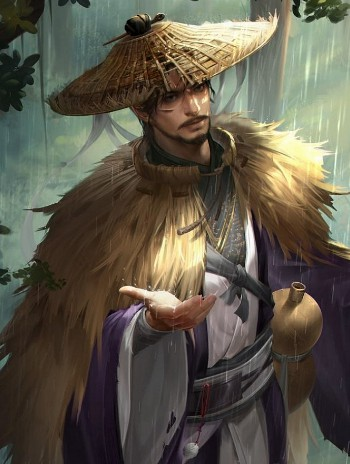
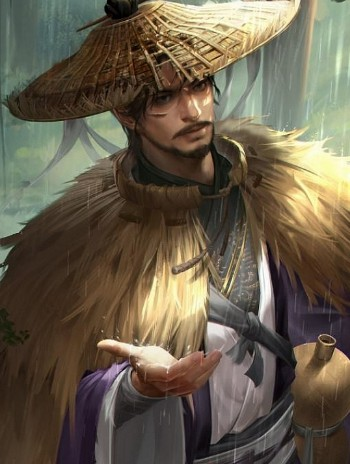
素材替换；诸葛若雪bugfix；侠关羽技能描述更正；诸葛均技能调整

diff --git a/character/tw/translate.js b/character/tw/translate.js
@@ -638,7 +638,7 @@ const translates = {
 	twzhongyi: "忠义",
 	twzhongyi_info: "锁定技。①你使用【杀】无距离限制。②当你使用【杀】结算完毕后，你选择一项：⒈摸X张牌；⒉回复X点体力；⒊背水：失去Y点体力，依次执行以上两项（X为受到此牌造成的伤害的角色数，Y为你本局游戏选择此项的次数）。",
 	twchue: "除恶",
-	twchue_info: "①当你使用【杀】指定唯一目标时，若场上存在可称为此【杀】目标的非目标角色，则你可以失去1点体力，为此牌额外指定Z个目标。②当你受到伤害或失去体力后，你摸一张牌并获得1个“勇”标记。③回合结束时，若你的“勇”标记数大于等于Z，则你可以失去Z个“勇”标记，视为使用一张伤害+1且可以额外指定Z个目标的【杀】。（Z为你的体力值）",
+	twchue_info: "①当你使用【杀】指定唯一目标时，若场上存在可成为此【杀】目标的非目标角色，则你可以失去1点体力，为此牌额外指定Z个目标。②当你受到伤害或失去体力后，你摸一张牌并获得1个“勇”标记。③回合结束时，若你的“勇”标记数大于等于Z，则你可以失去Z个“勇”标记，视为使用一张伤害+1且可以额外指定Z个目标的【杀】。（Z为你的体力值）",
 	xia_shitao: "石韬",
 	twjieqiu: "劫囚",
 	twjieqiu_info: "出牌阶段限一次，你可以选择一名装备区没有废除栏的其他角色，废除其所有装备栏，然后其摸X张牌（X为其废除装备栏前的装备区牌数），直到其恢复所有装备栏前：其弃牌阶段结束时，其恢复等同于其弃置牌数的装备栏；其回合结束时，若其仍有已废除的装备栏，则你执行一个额外回合（每轮限一次）。",
@@ -688,11 +688,11 @@ const translates = {
 	twbaizu_info: "锁定技。结束阶段，若你已受伤且你有手牌，则你须选择X名有手牌的其他角色（X为你的体力值），你与这些角色同时弃置一张手牌，然后你对与你弃置牌类别相同的所有其他角色各造成1点伤害。历战：〖败族〗目标选择数+1。",
 	tw_zhugejun: "诸葛均",
 	twshouzhu: "受嘱",
-	twshouzhu_info: "出牌阶段开始时，你的同心角色可交给你至多三张牌。若你以此法得到的牌数X不小于2，其摸一张牌，然后执行同心：观看牌堆顶X张牌，然后将其中任意张牌以任意顺序置于牌堆底，将其余的牌置入弃牌堆。",
+	twshouzhu_info: "出牌阶段开始时，你的同心角色可交给你至多四张牌。若你以此法得到的牌数X不小于2，其摸一张牌，然后执行同心：观看牌堆顶X张牌，然后将其中任意张牌以任意顺序置于牌堆底，将其余的牌置入弃牌堆。",
 	twdaigui: "待归",
 	twdaigui_info: "出牌阶段结束时，若你手牌的颜色均相同，你可以选择至多Y名角色并亮出牌堆底等量的牌，然后这些角色依次选择并获得其中一张（Y为你的手牌数）。",
 	twcairu: "才濡",
-	twcairu_info: "每回合每种牌名限一次。你可以将两张颜色不同的牌当【火攻】、【铁索连环】或【无中生有】使用。",
+	twcairu_info: "每回合每种牌名限两次。你可以将两张颜色不同的牌当【火攻】、【铁索连环】或【无中生有】使用。",
 	simafu: "TW司马孚",
 	simafu_prefix: "TW",
 	xunde: "勋德",

diff --git a/character/tw/skill.js b/character/tw/skill.js
@@ -30,7 +30,7 @@ const skills = {
 			for (const current of targets) {
 				if (!current.isIn()) continue;
 				const cards = await current
-					.chooseToGive(`${get.translation(player)}对你发动了【受嘱】`, "作为其的同心角色，是否交给其至多三张牌？", player, "he", [1, 3])
+					.chooseToGive(`${get.translation(player)}对你发动了【受嘱】`, "作为其的同心角色，是否交给其至多四张牌？", player, "he", [1, 4])
 					.set("ai", card => {
 						if (!get.event("goon")) return -get.value(card);
 						if (ui.selected.cards.length < 2) return 4.5 + ui.selected.cards.length - get.value(card) + get.player().getUseValue(card) / 5;
@@ -218,7 +218,7 @@ const skills = {
 		enable: ["chooseToUse", "chooseToRespond"],
 		filter(event, player) {
 			return ["huogong", "tiesuo", "wuzhong"].some(name => {
-				if (player.getStorage("twcairu_used").includes(name)) return false;
+				if (player.getStorage("twcairu_used").filter(namex => namex == name).length > 1) return false;
 				return event.filterCard({ name }, player, event);
 			});
 		},
@@ -226,7 +226,7 @@ const skills = {
 			dialog(event, player) {
 				const list = ["huogong", "tiesuo", "wuzhong"]
 					.filter(name => {
-						if (player.getStorage("twcairu_used").includes(name)) return false;
+						if (player.getStorage("twcairu_used").filter(namex => namex == name).length > 1) return false;
 						return event.filterCard({ name }, player, event);
 					})
 					.map(name => [get.translation(get.type(name)), "", name]);
@@ -259,7 +259,7 @@ const skills = {
 								delete player.storage.twcairu_used;
 							});
 						}
-						player.storage.twcairu_used.add(event.result.card.name);
+						player.storage.twcairu_used.push(event.result.card.name);
 					},
 				};
 			},
@@ -274,7 +274,7 @@ const skills = {
 				let max = 0,
 					names = ["huogong", "tiesuo", "wuzhong"].filter(name => {
 						if (player.getStorage("twcairu_used").includes(name)) return false;
-						return player.hasValueTarget(name ,true, true);
+						return player.hasValueTarget(name, true, true);
 					});
 				if (!names.length) return 0;
 				names = names.map(namex => ({ name: namex }));

diff --git a/character/xianding/skill.js b/character/xianding/skill.js
@@ -3692,11 +3692,16 @@ const skills = {
 	dcnuanhui: {
 		audio: 2,
 		trigger: { player: "phaseJieshuBegin" },
+		filter(event, player) {
+			return game.hasPlayer(current => current.countCards("e") > 0);
+		},
 		direct: true,
 		content: function* (event, map) {
 			const player = map.player;
 			let result = yield player
-				.chooseTarget(get.prompt("dcnuanhui"), "选择一名装备区有牌的角色，该角色可以依次使用X张基本牌（X为其装备区牌数且至少为1）")
+				.chooseTarget(get.prompt("dcnuanhui"), "选择一名装备区有牌的角色，该角色可以依次使用X张基本牌（X为其装备区牌数且至少为1）", (card, player, target) => {
+					return target.countCards("e") > 0;
+				})
 				.set("ai", target => {
 					return get.event("aiTarget") == target ? 10 : 0;
 				})
